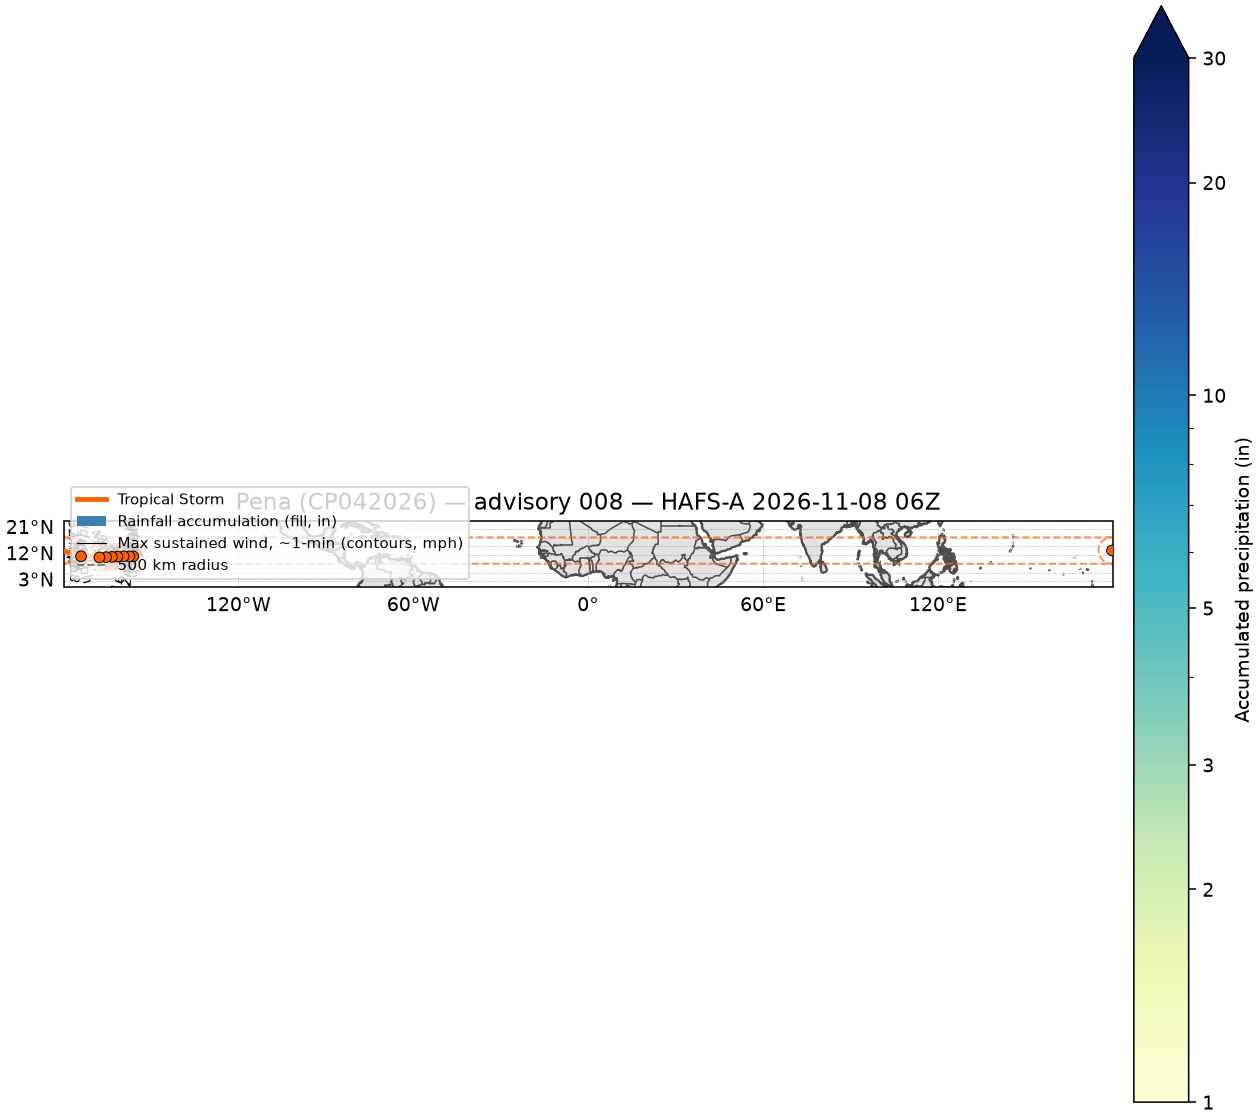
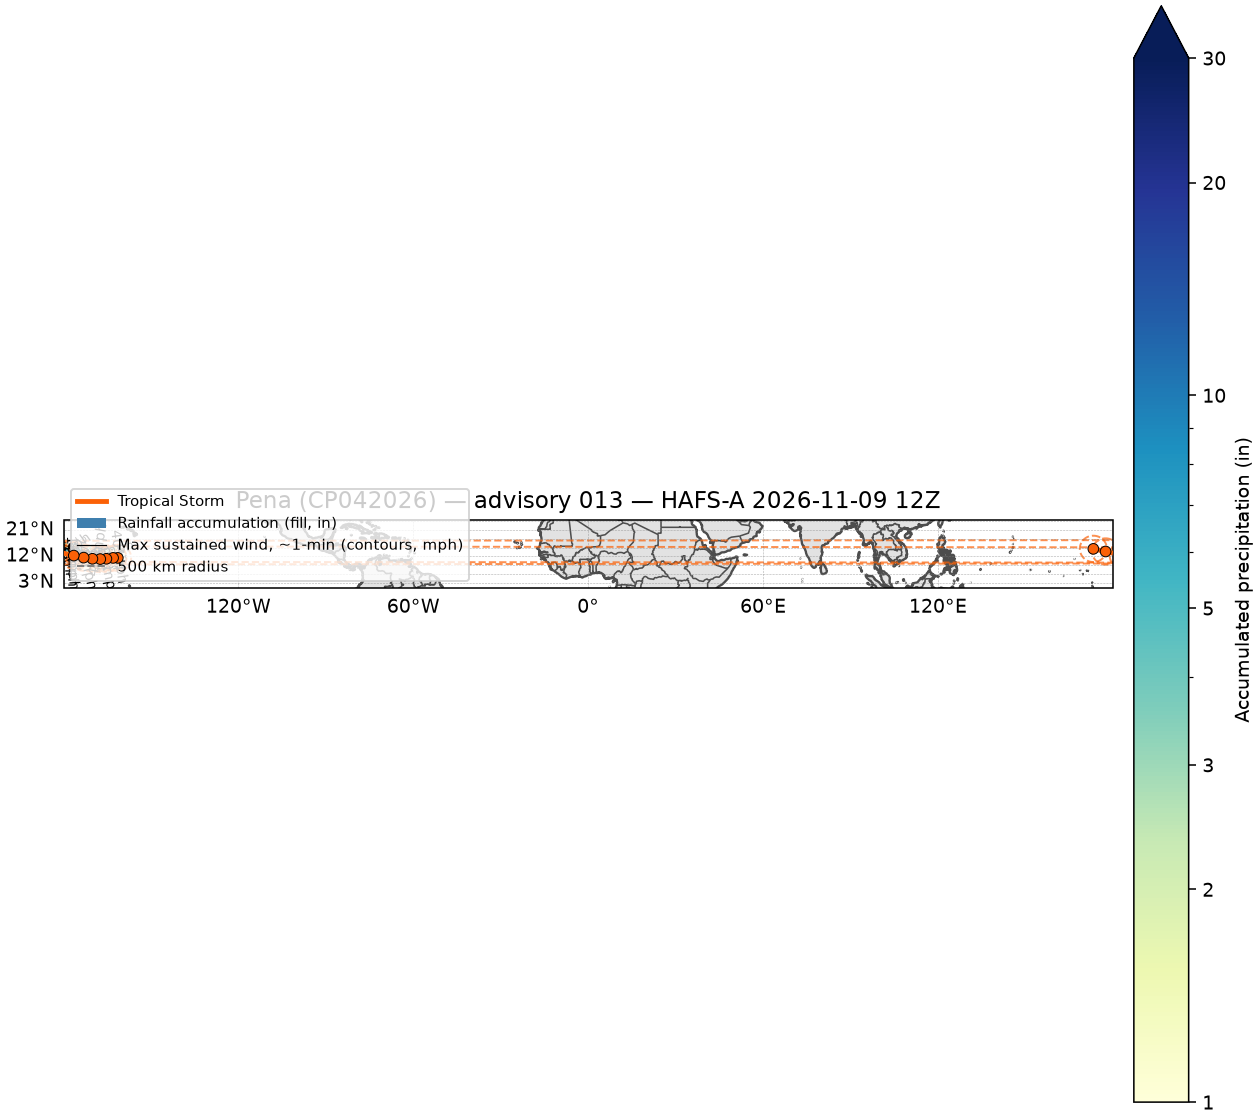
Automated render (2026-11-09T21:42Z)

Changed region(s): [[0.0, 0.4062, 0.8976, 0.5625]]

diff --git a/docs/posts/2026-09-09-ep-storm-precip-wind/index.html b/docs/posts/2026-09-09-ep-storm-precip-wind/index.html
@@ -464,7 +464,7 @@ Important
 <span id="cb2-15"><a href="#cb2-15" aria-hidden="true" tabindex="-1"></a>    <span class="bu">print</span>(<span class="st">"No active storms in AL/EP/CP right now — nothing to plot today."</span>)</span></code></pre></div><button title="Copy to Clipboard" class="code-copy-button"><i class="bi"></i></button></div>
 </details>
 <div class="cell-output cell-output-stdout">
-<pre><code>Found: Pena (CP) — advisory 008</code></pre>
+<pre><code>Found: Pena (CP) — advisory 013</code></pre>
 </div>
 </div>
 </section>
@@ -609,7 +609,7 @@ Important
 <tr class="odd">
 <th data-quarto-table-cell-role="th">0</th>
 <td>Pena (CP)</td>
-<td>2026-11-08 06Z</td>
+<td>2026-11-09 12Z</td>
 <td>9</td>
 <td>120</td>
 <td>Tropical Storm</td>
@@ -799,15 +799,15 @@ Important
 <span id="cb5-171"><a href="#cb5-171" aria-hidden="true" tabindex="-1"></a>composite_summary</span></code></pre></div><button title="Copy to Clipboard" class="code-copy-button"><i class="bi"></i></button></div>
 </details>
 <div class="cell-output cell-output-stdout">
-<pre><code>&lt;!-- cp042026 window 0h-12h (fxx 9-21): precip range [0.00,484.78] mm, wind range [3.06,22.28] m/s --&gt;
-&lt;!-- cp042026 window 12h-24h (fxx 21-33): precip range [0.00,684.97] mm, wind range [1.13,24.81] m/s --&gt;
-&lt;!-- cp042026 window 24h-36h (fxx 33-45): precip range [0.00,1081.53] mm, wind range [1.99,25.98] m/s --&gt;
-&lt;!-- cp042026 window 36h-48h (fxx 45-57): precip range [0.00,1415.09] mm, wind range [2.12,27.08] m/s --&gt;
-&lt;!-- cp042026 window 48h-60h (fxx 57-69): precip range [0.00,2696.82] mm, wind range [2.06,30.63] m/s --&gt;
-&lt;!-- cp042026 window 60h-72h (fxx 69-81): precip range [0.00,4135.86] mm, wind range [0.98,30.63] m/s --&gt;
-&lt;!-- cp042026 window 72h-96h (fxx 81-105): precip range [0.00,382.99] mm, wind range [0.98,30.31] m/s --&gt;
+<pre><code>&lt;!-- cp042026 window 0h-12h (fxx 9-21): precip range [0.00,848.47] mm, wind range [2.71,22.59] m/s --&gt;
+&lt;!-- cp042026 window 12h-24h (fxx 21-33): precip range [0.00,1851.77] mm, wind range [2.21,20.96] m/s --&gt;
+&lt;!-- cp042026 window 24h-36h (fxx 33-45): precip range [0.00,2046.80] mm, wind range [1.14,24.66] m/s --&gt;
+&lt;!-- cp042026 window 36h-48h (fxx 45-57): precip range [0.00,2756.03] mm, wind range [1.28,25.15] m/s --&gt;
+&lt;!-- cp042026 window 48h-60h (fxx 57-69): precip range [0.00,3814.94] mm, wind range [0.98,30.98] m/s --&gt;
+&lt;!-- cp042026 window 60h-72h (fxx 69-81): precip range [0.00,5026.24] mm, wind range [0.80,31.20] m/s --&gt;
+&lt;!-- cp042026 window 72h-96h (fxx 81-105): precip range [0.00,2659.79] mm, wind range [0.80,31.20] m/s --&gt;
 &lt;!-- cp042026: skipped window 96h-120h (fxx 105-129): beyond HAFS max lead time --&gt;
-&lt;!-- cp042026 FINAL: precip total range [0.00,4189.34] mm (0.00 to 164.93 in) --&gt;</code></pre>
+&lt;!-- cp042026 FINAL: precip total range [0.00,5026.24] mm (0.00 to 197.88 in) --&gt;</code></pre>
 </div>
 <div id="composite-fields" class="cell-output cell-output-display" data-execution_count="4">
 <div>
@@ -831,9 +831,9 @@ Important
 <td>Pena (CP)</td>
 <td>7</td>
 <td>1</td>
-<td>4189.3</td>
-<td>95.9</td>
-<td>30.6</td>
+<td>5026.2</td>
+<td>82.4</td>
+<td>31.2</td>
 </tr>
 </tbody>
 </table>
@@ -1079,7 +1079,7 @@ Important
 <label for="storm-select"><strong>Select a storm:</strong></label> <select id="storm-select" onchange="showStormPanel(this.value)"> <option value="storm-cp042026" selected="">Pena (CP)</option> </select>
 </div>
 <div id="storm-cp042026" class="storm-panel" style="display:block;">
-<img src="storm_images/cp042026.png?v=1794158289" style="max-width:100%;">
+<img src="storm_images/cp042026.png?v=1794260494" style="max-width:100%;">
 </div>
 <script>
 function showStormPanel(id) {
